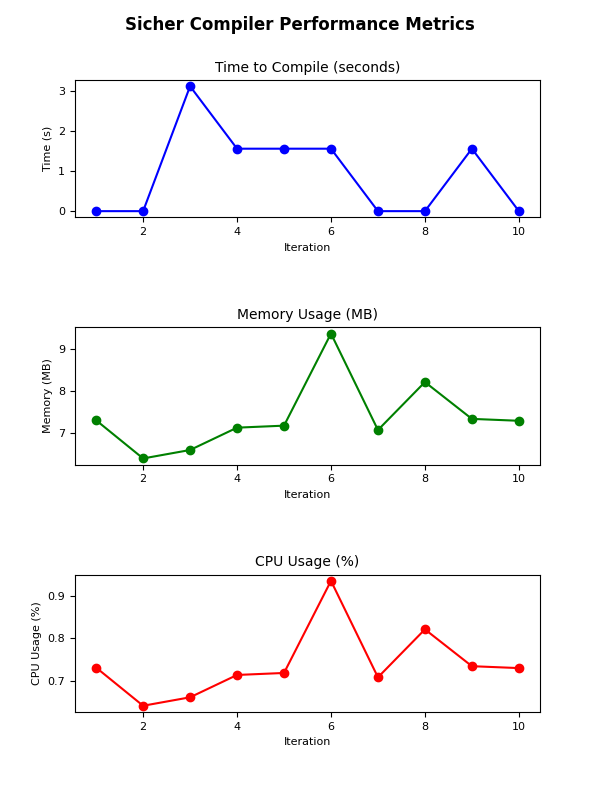
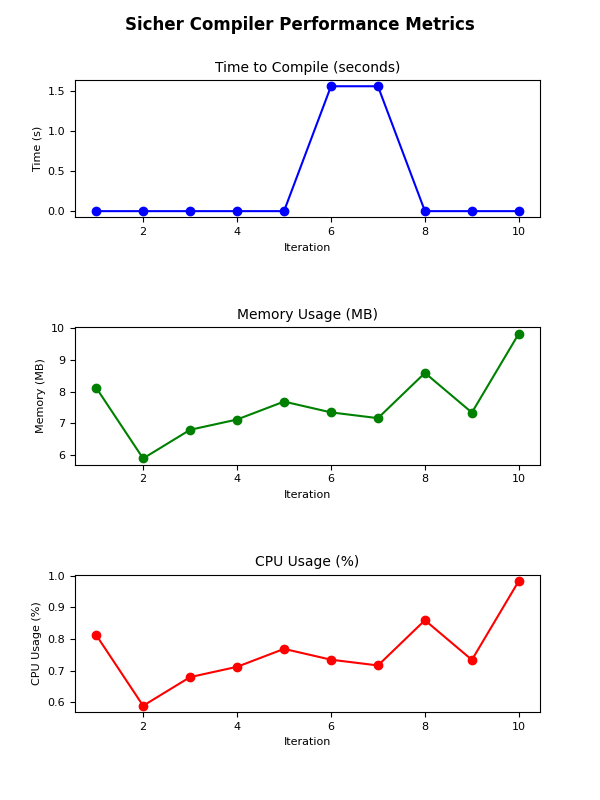
added save to pdf button

diff --git a/templates/results.html b/templates/results.html
@@ -1,38 +1,122 @@
+<!-- filepath: /Users/sandymacdonald/Documents/Clones/SicherWeb/templates/results.html -->
 {% extends "layout.html" %}
 
 {% block content %}
-<h1>Sicher Compilation Results for {{ filename }}</h1>
-{% if results.error %}
-    <h2>Error</h2>
-    <p>{{ results.error }}</p>
-{% else %}
-    <h2>Tokens:</h2>
-    <pre>{{ results.tokens }}</pre>
+<div id="results-container">
+    <h1>Sicher Compilation Results for {{ filename }}</h1>
+    {% if results.error %}
+        <h2>Error</h2>
+        <p>{{ results.error }}</p>
+    {% else %}
+        <h2>Tokens:</h2>
+        <pre>{{ results.tokens }}</pre>
 
-    <h2>Tokeniser Module Output:</h2>
-    <pre>{{ results.tokeniser_log }}</pre>
+        <h2>Tokeniser Module Output:</h2>
+        <pre>{{ results.tokeniser_log }}</pre>
 
-    <h2>Parser Module Output:</h2>
-    <pre>{{ results.parser_log }}</pre>
+        <h2>Parser Module Output:</h2>
+        <pre>{{ results.parser_log }}</pre>
 
-    <h2>Analyser Module/ Abstract Syntax Tree (AST):</h2>
-    <pre>{{ results.ast }}</pre>
+        <h2>Analyser Module/ Abstract Syntax Tree (AST):</h2>
+        <pre>{{ results.ast }}</pre>
 
-    <h2>Code Generator Module/ Generated Code:</h2>
-    <pre>{{ results.generated_code }}</pre>
+        <h2>Code Generator Module/ Generated Code:</h2>
+        <pre>{{ results.generated_code }}</pre>
 
-    <h2>Performance Metrics:</h2>
-    <img src="{{ url_for('static', filename='performance_plots.png') }}" alt="Performance Plots">
+        <h2>Performance Metrics:</h2>
+        <img src="{{ url_for('static', filename='performance_plots.png') }}" alt="Performance Plots">
 
-    <h2>Sicher Diagnostics:</h2>
-    <ul>
-        {% for key, value in results.diagnostics.items() %}
-            <li><strong>{{ key }}:</strong> {{ value }}</li>
-        {% endfor %}
-    </ul>
+        <h2>Sicher Diagnostics:</h2>
+        <ul>
+            {% for key, value in results.diagnostics.items() %}
+                <li><strong>{{ key }}:</strong> {{ value }}</li>
+            {% endfor %}
+        </ul>
 
-    <h2>Binary Status:</h2>
-    <p>{{ results.binary }}</p>
-    <p>Please use either the CLI or GUI version of Sicher to execute and run the binary.</p>
-{% endif %}
+        <h2>Binary Status:</h2>
+        <p>{{ results.binary }}</p>
+        <p>Please use either the CLI or GUI version of Sicher to execute and run the binary.</p>
+    {% endif %}
+</div>
+
+<!-- Add Save to PDF Button -->
+<button id="saveToPdfButton" class="upload-button">Save to PDF</button>
+
+<!-- Include pdf-lib Library -->
+<script src="https://cdnjs.cloudflare.com/ajax/libs/pdf-lib/1.17.1/pdf-lib.min.js"></script>
+
+<script>
+    document.getElementById('saveToPdfButton').addEventListener('click', async function () {
+        // Import pdf-lib
+        const { PDFDocument, rgb } = PDFLib;
+
+        // Create a new PDF document
+        const pdfDoc = await PDFDocument.create();
+
+        // Add the first page to the PDF
+        let page = pdfDoc.addPage([595.28, 841.89]); // A4 size in points (width x height)
+
+        // Get the content of the results container
+        const content = document.querySelector('#results-container').innerText;
+
+        // Define font size and margins
+        const fontSize = 12;
+        const margin = 50;
+        const textWidth = page.getWidth() - margin * 2;
+
+        // Function to wrap text
+        function wrapText(text, maxWidth, fontSize) {
+            const words = text.split(' ');
+            const lines = [];
+            let currentLine = '';
+
+            for (const word of words) {
+                const testLine = currentLine + (currentLine ? ' ' : '') + word;
+                const testWidth = fontSize * 0.6 * testLine.length; // Approximate width of text
+                if (testWidth > maxWidth) {
+                    lines.push(currentLine);
+                    currentLine = word;
+                } else {
+                    currentLine = testLine;
+                }
+            }
+            if (currentLine) {
+                lines.push(currentLine);
+            }
+            return lines;
+        }
+
+        // Add content to the PDF
+        const lines = content.split('\n');
+        let y = page.getHeight() - margin;
+
+        for (const line of lines) {
+            const wrappedLines = wrapText(line, textWidth, fontSize);
+            for (const wrappedLine of wrappedLines) {
+                if (y < margin + fontSize) {
+                    // Add a new page if the content exceeds the current page
+                    page = pdfDoc.addPage([595.28, 841.89]);
+                    y = page.getHeight() - margin;
+                }
+                page.drawText(wrappedLine, {
+                    x: margin,
+                    y: y,
+                    size: fontSize,
+                    color: rgb(0, 0, 0), // Black text
+                });
+                y -= fontSize + 5; // Adjust line spacing
+            }
+        }
+
+        // Serialize the PDF to bytes
+        const pdfBytes = await pdfDoc.save();
+
+        // Trigger download
+        const blob = new Blob([pdfBytes], { type: 'application/pdf' });
+        const link = document.createElement('a');
+        link.href = URL.createObjectURL(blob);
+        link.download = 'results.pdf';
+        link.click();
+    });
+</script>
 {% endblock %}
